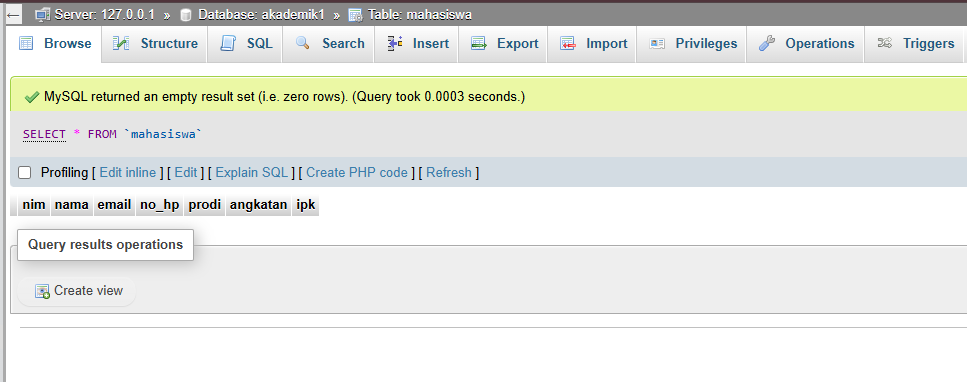
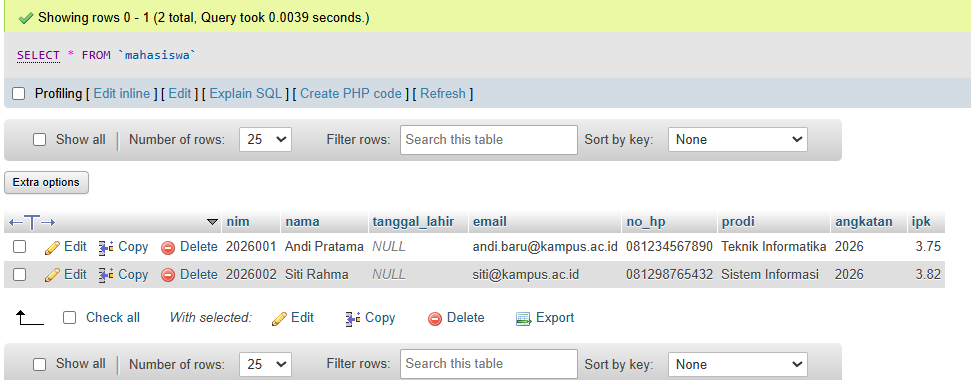
update pert4

diff --git a/pert3/README.md b/pert3/README.md
@@ -8,62 +8,60 @@
 ---
 
 ## 1. Contoh Pertemuan 3
-### A. Contoh akademik
-![Struktur Sebelum Modifikasi](screenshoot/sebelum.png)
-### B. Contoh akademik1
-![Struktur Sebelum Modifikasi](screenshoot/sebelum1.png)
+![Contoh](screenshoot/sebelum1.png)
 
 Seluruh skrip SQL Pertemuan 3 telah berhasil dijalankan tanpa error kritis[cite: 4].
 
 ### Screenshot Sebelum Modifikasi
-![Struktur Sebelum Modifikasi](screenshoot/sebelum1.png)
+### A .![Struktur Sebelum Modifikasi](screenshoot/sblm.png)
+
+### B .![Struktur Sesudah Modifikasi](screenshoot/sblmb.png)
 > *Keterangan: Menampilkan database `akademik1` yang memuat 4 tabel utama (`dosen`, `krs`, `mahasiswa`, `mata_kuliah`)
 
 ---
 
 ## 2. Modifikasi Program
 
-Dua modifikasi bermakna yang ditambahkan pada pangkalan data sesuai materi DDL dan DML[cite: 4, 13, 20]:
+Dua modifikasi struktur tabel (DDL) yang ditambahkan pada pangkalan data[cite: 13, 25]:
 
-* **Modifikasi 1: Penambahan Kolom `no_hp` pada Tabel `mahasiswa` (DDL)**[cite: 2, 4, 13]
-  * **Penjelasan:** Menambahkan kolom `no_hp` bertipe `VARCHAR(15)` pada tabel `mahasiswa` untuk melengkapi informasi kontak mahasiswa.
+* **Modifikasi 1: Penambahan Kolom `tanggal_lahir` pada Tabel `mahasiswa` (DDL)**[cite: 11, 13]
+  * **Penjelasan:** Menambahkan kolom `tanggal_lahir` bertipe data `DATE` setelah kolom `nama` pada tabel `mahasiswa` untuk melengkapi profil mahasiswa[cite: 11, 13].
   * **Kueri SQL:**
     ```sql
     ALTER TABLE mahasiswa 
-    ADD COLUMN no_hp VARCHAR(15) AFTER email;
+    ADD COLUMN tanggal_lahir DATE AFTER nama;
     ```
 
-* **Modifikasi 2: Pengisian Data Sampel Mahasiswa (DML)**
-  * **Penjelasan:** Memasukkan baris data baru ke dalam tabel `mahasiswa` menggunakan perintah `INSERT INTO` untuk menguji penyimpanan data.
+* **Modifikasi 2: Penambahan Kolom `no_telepon` pada Tabel `dosen`**[cite: 11, 13]
+  * **Penjelasan:** Menambahkan kolom `no_telepon` bertipe data `VARCHAR(15)` pada tabel `dosen` untuk menyimpan kontak pengajar[cite: 11, 13].
   * **Kueri SQL:**
     ```sql
-    INSERT INTO mahasiswa (nim, nama, email, prodi, angkatan, ipk, no_hp) VALUES
-    ('2026001', 'Andi Pratama', 'andi@kampus.ac.id', 'Teknik Informatika', 2026, 3.75, '081234567890'),
-    ('2026002', 'Siti Rahma', 'siti@kampus.ac.id', 'Sistem Informasi', 2026, 3.82, '081298765432'),
-    ('2025003', 'Budi Santoso', 'budi@kampus.ac.id', 'Teknik Informatika', 2025, 3.20, '081311223344');
+    ALTER TABLE dosen 
+    ADD COLUMN no_telepon VARCHAR(15);
     ```
 
 ### Screenshot Sesudah Modifikasi
-![Struktur Sesudah Modifikasi](screenshoot/modif1.png)
-![Struktur Sesudah Modifikasi](screenshoot/modif2.png)
-> *Keterangan: Menampilkan kondisi tabel `mahasiswa` setelah penambahan kolom `no_hp` dan pengisian data sampel.*
+### A .![Struktur Sesudah Modifikasi](screenshoot/modif1.png)
+
+### B .![Struktur Sesudah Modifikasi](screenshoot/modif2.png)
+> *Keterangan: Menampilkan struktur tabel `mahasiswa` dan `dosen` di phpMyAdmin setelah penambahan kolom baru melalui perintah ALTER TABLE[cite: 13].*
 
 ---
 
 ## 3. Penjelasan Bagian Kode Penting
 
-Berikut adalah 5 bagian kode SQL paling penting beserta penjelasannya
+Berikut adalah 5 bagian kueri SQL paling penting pada Pertemuan 3 beserta penjelasannya
 
 1. **`CREATE DATABASE IF NOT EXISTS akademik1;`**
-   * **Fungsi:** Membuat database baru bernama `akademik1` jika database tersebut belum tersedia di server.
+   * **Fungsi:** Membuat pangkalan data baru bernama `akademik1` secara otomatis apabila pangkalan data tersebut belum terdaftar
 2. **`PRIMARY KEY`**
-   * **Fungsi:** Menjadikan kolom sebagai identitas unik utama agar tidak ada data ganda
+   * **Fungsi:** Menentukan kolom sebagai identitas unik utama pada tabel agar tidak terjadi duplikasi data
 3. **`FOREIGN KEY ... REFERENCES`**
-   * **Fungsi:** Menghubungkan relasi antar tabel (misalnya kolom `nim` di tabel `krs` merujuk ke `nim` di tabel `mahasiswa`)
+   * **Fungsi:** Membentuk hubungan (relasi) antar tabel, seperti menghubungkan kolom `nim` pada tabel `krs` ke `nim` di tabel `mahasiswa`
 4. **`ON UPDATE CASCADE ON DELETE CASCADE`**
-   * **Fungsi:** Memastikan perubahan atau penghapusan data induk otomatis memperbarui data terkait di tabel turunan
+   * **Fungsi:** Memastikan apabila data utama diubah atau dihapus, perubahan tersebut otomatis diterapkan pada data terkait di tabel turunan
 5. **`CONSTRAINT uq_krs UNIQUE (nim, kode_mk, semester, tahun_ajaran)`**
-   * **Fungsi:** Membatasi agar kombinasi mahasiswa, mata kuliah, semester, dan tahun ajaran tidak bisa terduplikasi
+   * **Fungsi:** Membatasi kombinasi data pengambilan KRS agar tidak terjadi pengambilan mata kuliah yang sama oleh mahasiswa di semester dan tahun ajaran yang sama
 
 ---
 
@@ -72,9 +70,9 @@ Berikut adalah 5 bagian kode SQL paling penting beserta penjelasannya
 
 Langkah penanganan error yang sempat ditemui saat proses pengerjaan:
 
-* **Pesan Error:** `#1046 - No database selected`[cite: 1]
+* **Pesan Error:** `#1046 - No database selected`
 * **Penyebab:** Melakukan impor berkas SQL tanpa memilih atau membuat database tujuan terlebih dahulu di phpMyAdmin
 * **Solusi Perbaikan:**
-  1. Membuat database baru terlebih dahulu (misal: `akademik1`)[cite: 1, 6].
-  2. Mengklik nama database tersebut pada menu sebelah kiri hingga aktif[cite: 1].
+  1. Membuat database baru terlebih dahulu (misal: `akademik1`)
+  2. Mengklik nama database tersebut pada menu sebelah kiri hingga aktif
   3. Mengulang kembali proses impor berkas SQL

diff --git a/pert4/README.md b/pert4/README.md
@@ -1,0 +1,82 @@
+# Laporan Praktikum - Pertemuan 4: SQL Query & Manipulasi Data (DML)
+
+**Informasi Mahasiswa:**
+* **Nama:** Farhan Ridwan Badhawi
+* **NIM:** 4524210037
+* **Matkul:** PBW
+
+---
+
+## 1. Contoh Pertemuan 4
+
+### Latihan A
+![Eksekusi Kode Utama](screenshoot/sebelum.png)
+
+### Latihan B
+![Eksekusi Kode Utama](screenshoot/sebelumb.png)
+Seluruh kueri DML (Data Manipulation Language) Pertemuan 4 pada pangkalan data `akademik1` telah berhasil dijalankan tanpa error.
+
+
+### Screenshot Sebelum Modifikasi
+![Eksekusi Kode Utama](screenshoot/sebelum.png)
+> *Keterangan: Menampilkan data pada tabel `mahasiswa` setelah eksekusi kueri INSERT, UPDATE, dan DELETE dari Latihan Kode Program A dan B*.
+
+---
+
+## 2. Modifikasi Program
+
+Dua modifikasi bermakna yang ditambahkan pada kueri Pertemuan 4.
+
+* **Modifikasi 1: Pembaruan Email Mahasiswa (DML UPDATE)**.
+  * **Penjelasan:** Mengubah data alamat email milik mahasiswa dengan NIM '2026001' (Andi Pratama) menggunakan perintah `UPDATE` dan klausa `WHERE`.
+  * **Kueri SQL:**
+    ```sql
+    UPDATE mahasiswa 
+    SET email = 'andi.baru@kampus.ac.id' 
+    WHERE nim = '2026001';
+    ```
+
+* **Modifikasi 2: Menampilkan Seluruh Mahasiswa Terurut Nama (DML SELECT & ORDER BY)**[cite: 19, 20, 23, 25]
+  * **Penjelasan:** Menampilkan data NIM, Nama, Prodi, dan IPK mahasiswa dengan urutan nama secara alfabetis (A-Z) menggunakan `ORDER BY nama ASC`[cite: 20, 23].
+  * **Kueri SQL:**
+    ```sql
+    SELECT nim, nama, prodi, ipk 
+    FROM mahasiswa 
+    ORDER BY nama DESC;
+    ```
+
+### Screenshot Sesudah Modifikasi
+### A. ![Hasil Sesudah Modifikasi](screenshoot/sesudah.png)
+
+### B. ![Hasil Sesudah Modifikasi](screenshoot/sesudahb.png)
+
+> *Keterangan: Menampilkan hasil pembaharuan email serta keluaran kueri SELECT terurut setelah modifikasi dijalankan[cite: 18, 20, 25].*
+
+---
+
+## 3. Penjelasan Bagian Kode Penting
+
+Berikut adalah 5 bagian kueri SQL paling penting pada Pertemuan 4 beserta penjelasannya[cite: 25]:
+
+1. **`INSERT INTO mahasiswa (...) VALUES (...)`**
+   * **Fungsi:** Memasukkan baris data mahasiswa baru ke dalam tabel `mahasiswa`[cite: 16, 23].
+2. **`WHERE ipk >= 3.50`**
+   * **Fungsi:** Memfilter baris data agar hanya menampilkan data mahasiswa dengan nilai IPK 3.50 atau lebih[cite: 19, 23].
+3. **`UPDATE mahasiswa SET ipk = 3.40 WHERE nim = '2025003'`**
+   * **Fungsi:** Memperbarui nilai IPK mahasiswa tertentu secara spesifik berdasarkan parameter NIM[cite: 18, 24].
+4. **`GROUP BY prodi`**
+   * **Fungsi:** Mengelompokkan baris data berdasarkan nama program studi untuk menghitung agregasi seperti jumlah dan rata-rata IPK[cite: 21, 24].
+5. **`DELETE FROM mahasiswa WHERE nim = '2025003'`**
+   * **Fungsi:** Menghapus baris data mahasiswa tertentu dari tabel berdasarkan kriteria NIM[cite: 18, 24].
+
+---
+
+## 4. Analisis Error & Langkah Perbaikan
+![ERROR](screenshoot/error.png)
+Detail penanganan error yang sempat ditemui saat pengerjaan.
+
+* **Pesan Error:** `#1062 - Duplicate entry '2026001' for key 'PRIMARY'`.
+* **Penyebab:** Mencoba memasukkan baris data baru dengan nilai NIM `2026001` yang sudah ada sebelumnya di tabel, sehingga melanggar aturan `PRIMARY KEY`
+* **Solusi Perbaikan:**.
+  1. Menghapus atau mengosongkan isi tabel terlebih dahulu dengan `TRUNCATE TABLE mahasiswa;` jika ingin mengulang pengisian.
+  2. Atau langsung melanjutkan ke kueri `SELECT`/`UPDATE` tanpa mengeksekusi ulang baris `INSERT` yang duplikat.
